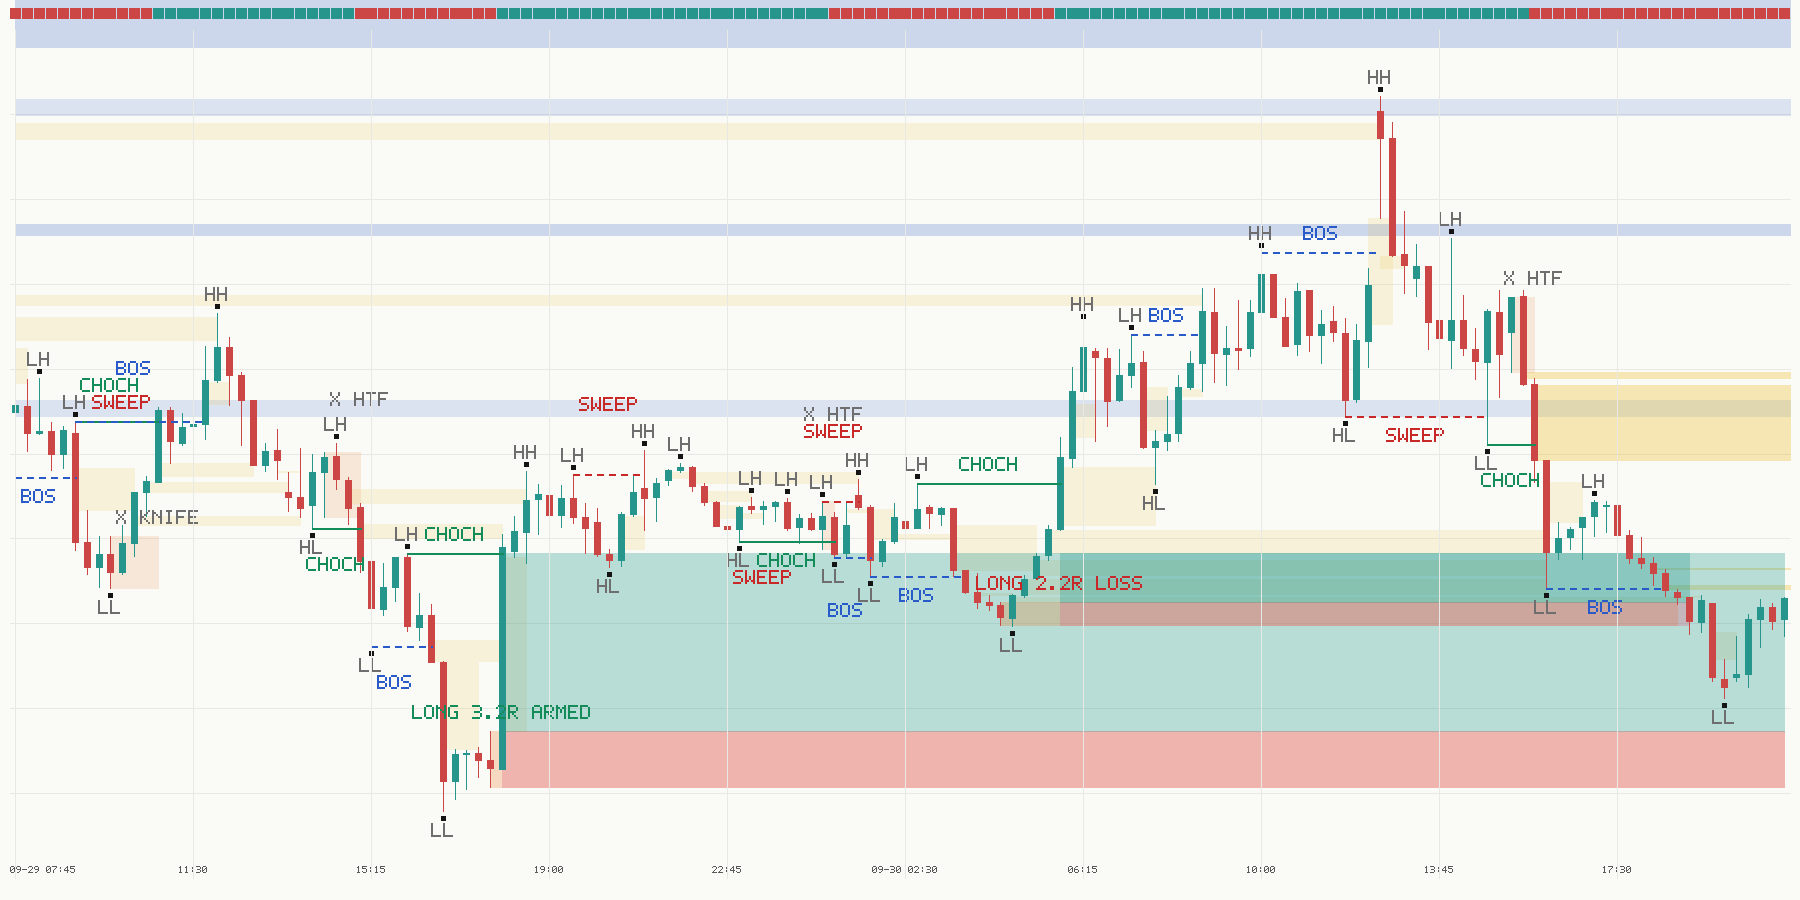
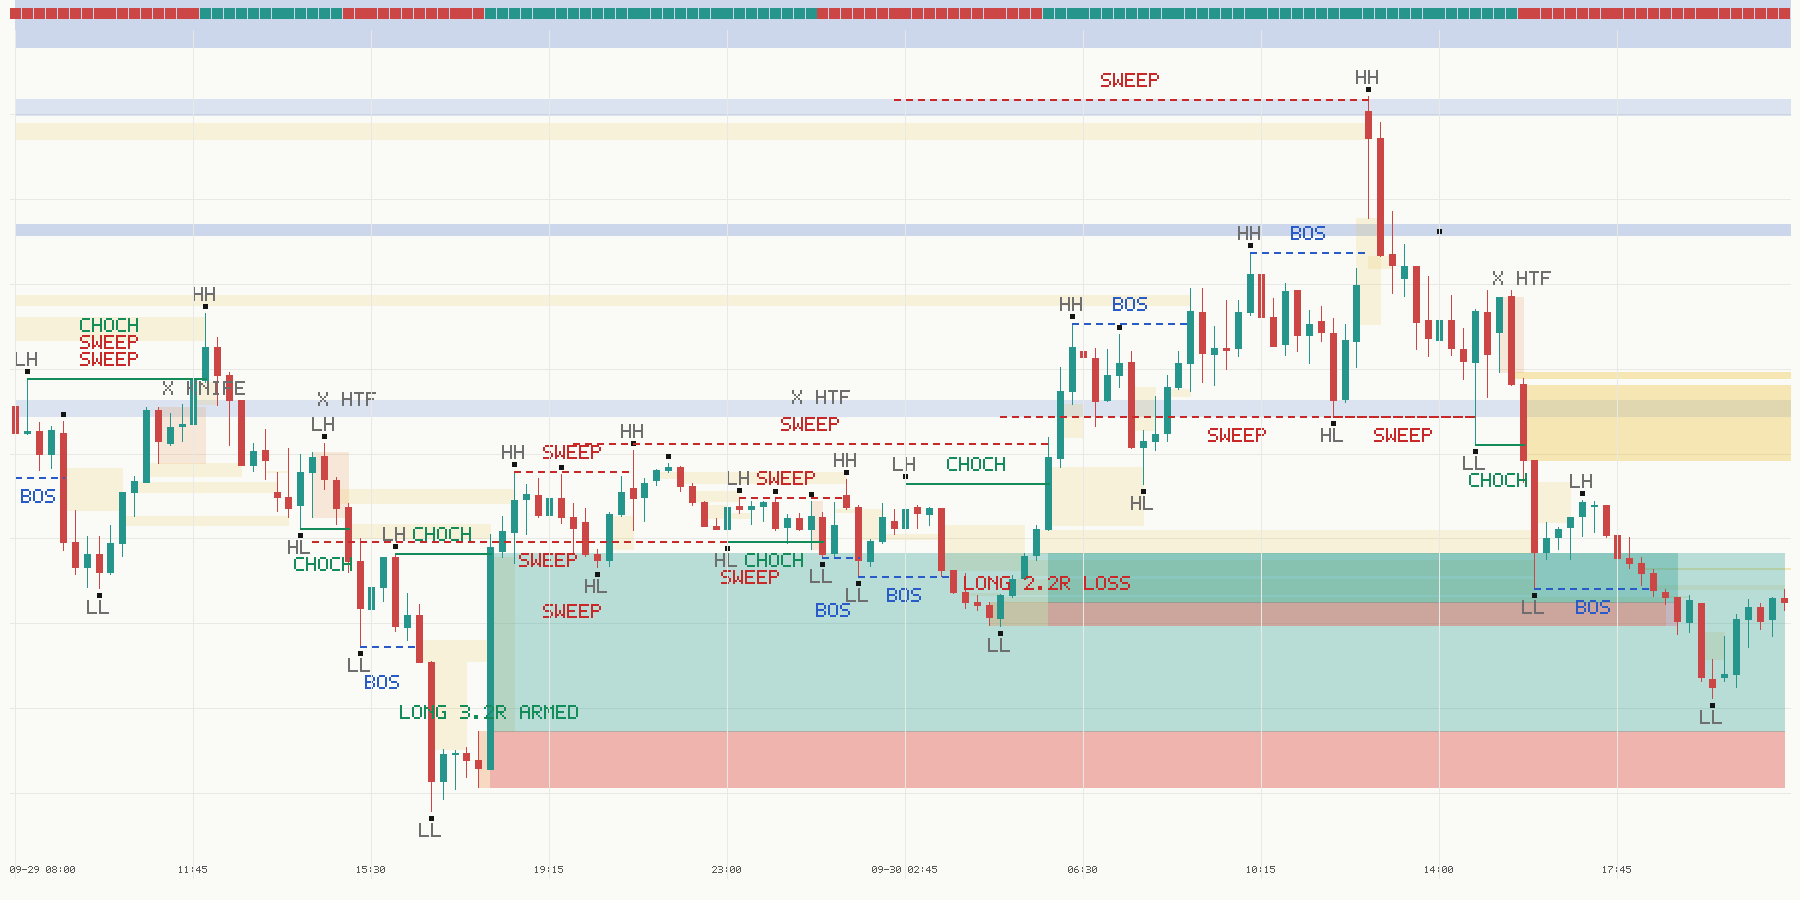
docs: the first markup comparison, committed evidence regenerated, markup format

diff --git a/docs/evidence/README.md b/docs/evidence/README.md
@@ -12,7 +12,14 @@ the readings are causal and deterministic, so the same data gives the same pictu
 | `eurusd-15m.png` | `recordings/forex/live-eurusd-20260928.jsonl` (241,125 lines, sha256 `bc2b4133…`) | `clicktrader smc-chart recordings/forex/live-eurusd-20260928.jsonl out.png --minutes 15 --bars 150` |
 | `gold-15m.png` | 288 fifteen-minute gold candles, 2026-09-25 → 09-30, `history-deriv --symbol frxXAUUSD` | `... --minutes 15 --bars 130` |
 
-**The one comparison with a person's markup that exists** (`v100-1m-owner-level-1001.*`): the owner drew a horizontal
+**The first comparison with a markup — mine, not the owner's** (`markup/v100-20260930-0700-1220.*`). Written from the owner's screenshot *before* the engine's output was looked at, in the JSON format the owner can fill in (`clicktrader smc-compare markup.json recording.jsonl`). Result after the fixes it prompted: **5 of 7 marks agree.** What it found, in order:
+
+1. **Wrong swing scale (fixed).** I marked a bearish change of character at 10:22 (the close through the floor the whole leg started from, ~1011). The engine called one at 10:12 — a break of a five-minute wiggle inside the rally (1019.85). It treated every two-bar fractal as structure. Structure now uses *major* swings: a leg smaller than the median leg in view is noise. The engine's CHOCH is now at 10:22, level 1011.60.
+2. **Level identity (fixed).** 58 bands stacked at one level because every swing joining a cluster made a new one; a level is now one object that grows.
+3. **Pool sweeps (added).** A wick through a stacked level that closes back inside on the same bar is now a SWEEP of that level whichever swing control is watching.
+4. **Disagreements left standing.** (a) My 'sweep at 11:24' was really an undercut — price closed below the support for four bars before recovering — so the engine not calling it a sweep is right by the material's own rule, and my mark was loose. (b) My long from the support was rejected as `HTF`: the 5-minute structure read down. That is a real difference of method (I bought a held support against the slower clock; the material's funnel does not). (c) In the chop I marked no-trade the engine armed one trade. (d) The engine calls 12–14 changes of character in the window where I marked one: I marked only the decisive one, so this shows the engine labels at finer scale than I do, not that it is wrong. (e) My 'flip zone' at ~1010.8 (a floor that broke and then capped bounces) was found as bands but they were deleted when price closed through them; the level-stack / flip-zone concept is not implemented.
+
+**The earlier one-line comparison** (`v100-1m-owner-level-1001.*`, the owner's hand-drawn line): the owner drew a horizontal
 line at about 1001 through a cluster of lows on the live chart (`docs/sources/screenshots/`). The engine's level
 there is the band 1000.84–1001.10 (5 touches), which contains the line; 58 swing points sit within one typical
 candle range of it, 42 of them lows. So it found the level **where the owner drew it, but as a thinner band than the
@@ -20,7 +27,7 @@ owner's line suggests**. One level, one instrument, one afternoon: a first data 
 
 **Zoom and drag.** Zoom is the bar size (`--minutes`), drag is the time window (`--from`/`--to`, UTC), and the time
 axis is on the picture so it can be placed on the clock. The reading is always of the whole recording, so dragging
-never changes what is seen in a window. At 12:20 the structure by zoom was `1m down, 5m down, 15m range`; that
+never changes what is seen in a window. At 12:20 the structure by zoom is `1m range, 5m down, 15m up`; that
 table, not one chart, is how the engine tells the zoom levels apart today. It does **not** yet re-read a level
 at a finer zoom or carry a level across zooms (the material's daily → 4H → 1H chain).
 

diff --git a/docs/smc/README.md b/docs/smc/README.md
@@ -120,3 +120,9 @@ structure at each), `--from`/`--to` drags to a time window (UTC; the time axis i
 `--mark PRICE` overlays a level drawn by hand and says how it compares with the engine's levels. The engine's own
 renders, with the exact command and console output beside each, are in [`docs/evidence/`](../evidence/README.md),
 including the one comparison with the owner's markup that exists.
+
+**Judging the engine against a person's marks.** Write what you would mark on a chart as JSON (levels, zones,
+changes of character, sweeps, trades, no-trade windows; see `docs/evidence/markup/`), then
+`clicktrader smc-compare markup.json recording.jsonl` says, for each mark, whether the engine said the same and what
+it said instead. The first markup was written by an AI agent, not the owner, and the file says so; the owner's own
+marks go in the same format.
